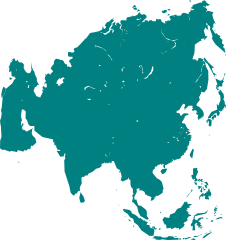
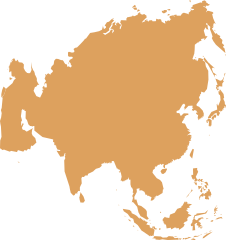
png color change, loader change on FullStory

diff --git a/screens/FullStory.js b/screens/FullStory.js
@@ -47,10 +47,19 @@ const FullStory = ({ navigation }) => {
         fetchStory();
     }, [])
 
+    let StoryContent;
+
     if(isLoading && !fullStory) {
-        return <View style={{ flex: 1, justifyContent: 'center' }}>
-                <ActivityIndicator size="large" color={Colors.primary_gold} />
-               </View>
+        StoryContent = 
+        <View style={{ flex: 1, justifyContent: 'center' }}>
+            <ActivityIndicator size="large" color={Colors.primary_gold} style={{ marginTop: 40 }}/>
+        </View>
+    } else {
+        StoryContent = fullStory.map((paragraph, index) => (
+            <View style={styles.paragraphContainer} key={index}>
+                <Text style={styles.paragraph}>{paragraph}</Text>
+            </View>
+            ))
     }
 
   return (
@@ -73,11 +82,7 @@ const FullStory = ({ navigation }) => {
         <View style={styles.titleContainer}>
             <Text style={styles.title}>Pearl Harbor Attacks</Text>
         </View>
-        {fullStory.map((paragraph, index) => (
-        <View style={styles.paragraphContainer} key={index}>
-            <Text style={styles.paragraph}>{paragraph}</Text>
-        </View>
-        ))}
+        {StoryContent}
       </ScrollView>
     </View>
     </>
